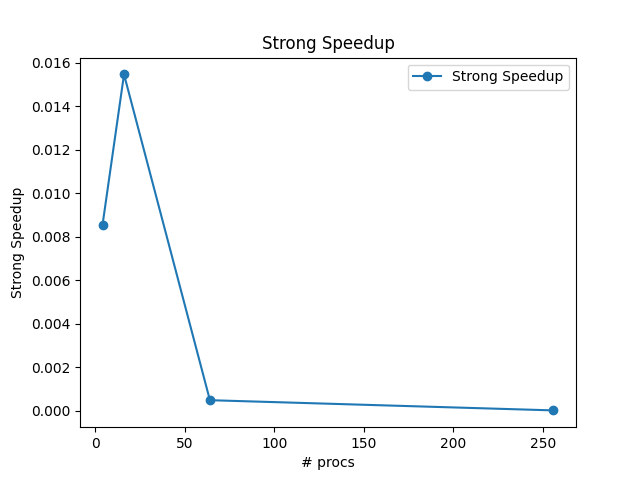
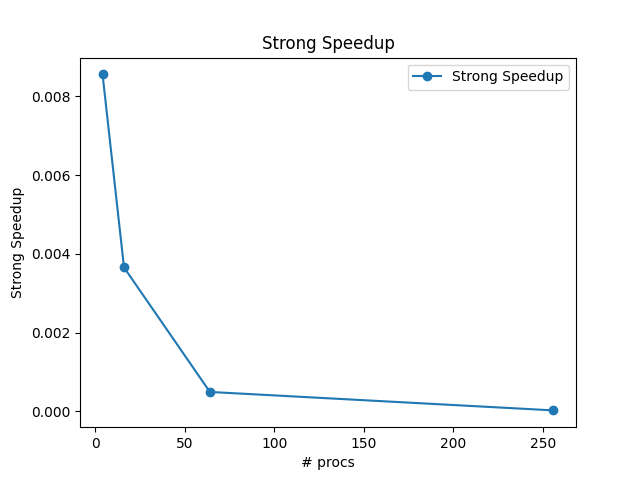
new submission

diff --git a/assignments/3/part3/make_plots.py b/assignments/3/part3/make_plots.py
@@ -3,7 +3,7 @@ import matplotlib.pyplot as plt
 # values pulled from the jobresults files of part1 and part2
 serial_time = 0.0000471942 # seconds
 parallel_time = [0.0055128634, # 2 x 2
-                 0.0030495860, # 4 x 4
+                 0.0129183518, # 4 x 4
                  0.0963258766, # 8 x 8
                  2.2773004099, # 16x16
                  ]

diff --git a/assignments/3/README.md b/assignments/3/README.md
@@ -13,9 +13,8 @@ Contains the parallel computation code
 
 Contains graphing code
 
-My strong speedup graph looks like trash. I assume this is because of the different runs using different amounts of nodes so communication time varies significantly. (The first few runs are on 1 node so communication time is very small.)
+Strong speedup goes down with more processes which I assume is because n is not very big so the communication time is having a very large effect on the runtime.
 
-I also assume that the speedup would be better if the matrix was bigger.
+* strong_speedup.png is the strong speedup.
 
-* strong_speedup.png is the normal strong speedup.
-* strong_speedup_1x1.png is the strong speedup compared to the 1x1 results from part2.
+![](./part3/strong_speedup.png)
